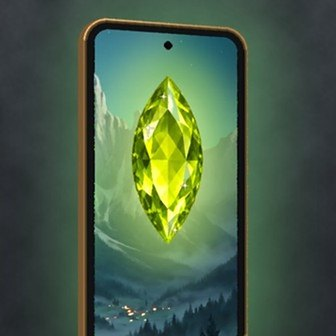
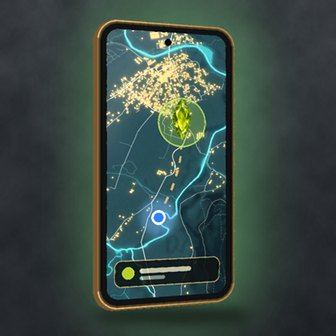
Menu cards: Ali Pasha springs on Visit info, the phone with the game map on Before you go
Claude-Session: https://claude.ai/code/session_01Bc8dTu2Rduqva5cFxfx3Wo

diff --git a/index.html b/index.html
@@ -543,7 +543,7 @@ button { font: inherit; color: inherit; }
           </span>
         </button>
         <button type="button" class="mode framed menu" data-panel="visit" data-i18n-label="menuVisit" aria-describedby="desc-visit">
-          <span class="mode-art" aria-hidden="true"><img src="landing/menu-visit.jpg" alt="" width="240" height="240" decoding="async" loading="lazy"></span>
+          <span class="mode-art" aria-hidden="true"><img src="landing/menu-visit.jpg?v=2" alt="" width="240" height="240" decoding="async" loading="lazy"></span>
           <span class="mode-body">
             <span class="mode-kicker" data-i18n="visKicker">Plan your visit</span>
             <span class="mode-title" data-i18n="menuVisit">Visit info</span>
@@ -552,7 +552,7 @@ button { font: inherit; color: inherit; }
           </span>
         </button>
         <button type="button" class="mode framed menu" data-panel="ready" data-i18n-label="menuReady" aria-describedby="desc-ready">
-          <span class="mode-art" aria-hidden="true"><img src="landing/menu-ready.jpg" alt="" width="240" height="240" decoding="async" loading="lazy"></span>
+          <span class="mode-art" aria-hidden="true"><img src="landing/menu-ready.jpg?v=2" alt="" width="240" height="240" decoding="async" loading="lazy"></span>
           <span class="mode-body">
             <span class="mode-kicker" data-i18n="rdyKicker">Get ready</span>
             <span class="mode-title" data-i18n="menuReady">Before you go</span>
